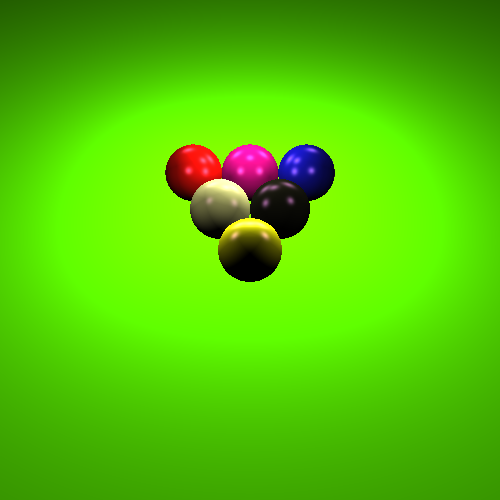
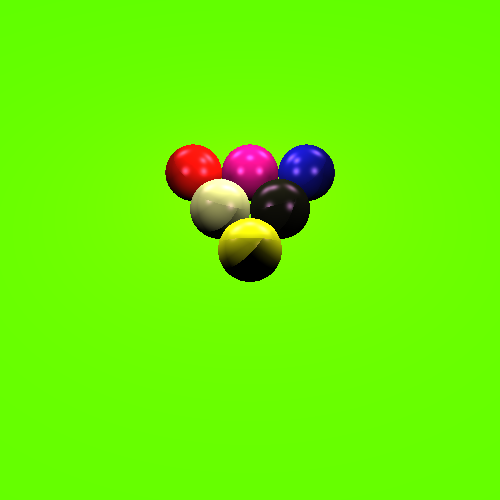
first hard shadows

diff --git a/RayTracing2/src/RayTracing/RayTracer.java b/RayTracing2/src/RayTracing/RayTracer.java
@@ -53,43 +53,45 @@ public class RayTracer
 				tracer.imageWidth = Integer.parseInt(args[2]);
 				tracer.imageHeight = Integer.parseInt(args[3]);
 			}
-/*
-			/////////////////////////////////////////////////
+
+			// ///////////////////////////////////////////////
 			// for testing - comment out before submitting //
-			/////////////////////////////////////////////////
-			String[] inputFiles = { "Part1_Ellipsoids.txt",
-									"Part1_ManySpheres_Narrow.txt",
-									"Part1_ManySpheres_Normal.txt",
-									"Part1_ManySpheres_Wide.txt",
-									"Part1_Pool.txt",
-									"Part1_Room.txt" };
-			
+			// ///////////////////////////////////////////////
+			String[] inputFiles = { "Ellipsoids.txt", "ManySpheres_Narrow.txt", "ManySpheres_Normal.txt",
+					"ManySpheres_Wide.txt", "Pool.txt", "Room.txt", "Bubbles.txt", "EllipsoidsCompare.txt",
+					"MirrorBalls.txt", "SciFi.txt", "Spheres.txt", "SpheresCompare.txt", "Transparency.txt" };
+			/*String[] inputFiles = { "Part1_Ellipsoids.txt",
+					"Part1_ManySpheres_Narrow.txt",
+					"Part1_ManySpheres_Normal.txt",
+					"Part1_ManySpheres_Wide.txt",
+					"Part1_Pool.txt",
+					"Part1_Room.txt" };
+*/
+
 			for (int i = 0; i < inputFiles.length; i++)
 			{
 				String input = "scenes/" + inputFiles[i];
-				String output = "output/output_" + inputFiles[i].substring(0, inputFiles[i].length()-3) + "png";
+				String output = "output/output_" + inputFiles[i].substring(0, inputFiles[i].length() - 3) + "png";
 				tracer.parseScene(input);
 				tracer.renderScene(output);
 			}
-			/////////////////////////////////////////////////
-			// 			end of part for testing		 	   //
-			/////////////////////////////////////////////////
-*/
-			
-			//////////////////////////////////////////////////
+			// ///////////////////////////////////////////////
+			// end of part for testing //
+			// ///////////////////////////////////////////////
+/*
+			// ////////////////////////////////////////////////
 			// for submitting - uncomment before submitting //
-			//////////////////////////////////////////////////
+			// ////////////////////////////////////////////////
 			// Parse scene file:
 			tracer.parseScene(sceneFileName);
 
 			// Render scene:
 			tracer.renderScene(outputFileName);
 
-			//////////////////////////////////////////////////
-			// 			end of part for submitting 			//
-			//////////////////////////////////////////////////
-
-			
+			// ////////////////////////////////////////////////
+			// end of part for submitting //
+			// ////////////////////////////////////////////////
+*/
 			// } catch (IOException e) {
 			// System.out.println(e.getMessage());
 		}
@@ -162,9 +164,8 @@ public class RayTracer
 					camera.setUpVector(new Vector3(Double.parseDouble(params[6]), Double.parseDouble(params[7]), Double
 							.parseDouble(params[8])));
 					camera.setScreenDist(Double.parseDouble(params[9]));
-					camera.setScreenWidth(Double.parseDouble(params[10]));		
-					
-					
+					camera.setScreenWidth(Double.parseDouble(params[10]));
+
 					scene.setCamera(camera);
 
 					System.out.println(String.format("Parsed camera parameters (line %d)", lineNum));
@@ -344,7 +345,7 @@ public class RayTracer
 
 		// It is recommended that you check here that the scene is valid,
 		// for example camera settings and all necessary materials were defined.
-		
+
 		scene.setLights(lights);
 		scene.setMaterials(materials);
 		scene.setSurfaces(surfaces);
@@ -353,9 +354,9 @@ public class RayTracer
 		{
 			throw new RayTracerException("Invalid scene.");
 		}
-		
+
 		scene.getCamera().calcTransMatrix();
-		
+
 		System.out.println("Finished parsing scene file " + sceneFileName);
 
 	}

diff --git a/RayTracing2/src/Scene/Scene.java b/RayTracing2/src/Scene/Scene.java
@@ -4,7 +4,6 @@ import java.util.Collections;
 import java.util.HashMap;
 import java.util.LinkedHashMap;
 import java.util.List;
-
 import java.util.Map.Entry;
 
 import RayTracing.Color;
@@ -183,7 +182,7 @@ public class Scene
 			double red = material.getDiffuse().getR() * light.getColor().getR() * nl; 
 			double green = material.getDiffuse().getG() * light.getColor().getG() * nl;
 			double blue = material.getDiffuse().getB() * light.getColor().getB() * nl;
-			pixelColor = pixelColor.add(new Vector3(red, green, blue));
+			Vector3 tempPixelColor = new Vector3(red, green, blue);
 			
 			//calc specular
 			
@@ -195,10 +194,46 @@ public class Scene
 			red = material.getSpecular().getR() * light.getColor().getR() * light.getSpecularIntensity() * rv;
 			green = material.getSpecular().getG() * light.getColor().getG() * light.getSpecularIntensity() * rv;
 			blue = material.getSpecular().getB() * light.getColor().getB() * light.getSpecularIntensity() * rv;
-			pixelColor = pixelColor.add(new Vector3(red,blue,green));
+			tempPixelColor = tempPixelColor.add(new Vector3(red,blue,green));
+			
+			//calc shadow
+			
+			tempPixelColor = tempPixelColor.mul(1-light.getShadowIntensity()*(getLightAmount(light, point)));
+			
+			pixelColor = pixelColor.add(tempPixelColor);
 			
 		}
 		
 		return new Color(pixelColor.getX(), pixelColor.getY(), pixelColor.getZ());
+	}
+
+	private double getLightAmount(Light light, Vector3 point)
+	{
+		int count = 0;
+		boolean flag = false;
+		for (int i = 0; i < this.getNumOfShadowRays(); i++)
+		{
+			for (int j = 0; j < this.getNumOfShadowRays(); j++)
+			{
+				Ray ray = light.createRay(point, this.getNumOfShadowRays(), i, j);
+				
+				for (Surface surface : this.getSurfaces())
+				{
+					if (!Double.isInfinite(surface.intersect(ray)))
+					{
+						flag = true;
+						break;
+					}
+				}
+				
+				if (flag)
+				{
+					count++;
+				}
+			}
+			
+		}
+		
+		return (double)count/(this.getNumOfShadowRays()*this.getNumOfShadowRays());
 	}
 }

diff --git a/RayTracing2/src/Scene/Light.java b/RayTracing2/src/Scene/Light.java
@@ -3,6 +3,7 @@ package Scene;
 
 
 import RayTracing.Color;
+import RayTracing.Ray;
 import RayTracing.Vector3;
 
 
@@ -72,5 +73,12 @@ public class Light
 	public void setRadius(double radius)
 	{
 		this.radius = radius;
+	}
+	
+	public Ray createRay(Vector3 point, int numOfShadowRays, int i, int j)
+	{
+		Vector3 V = this.position.sub(point);
+		V.normal();
+		return new Ray(point.add(V.mul(0.001)), V);
 	}
 }
